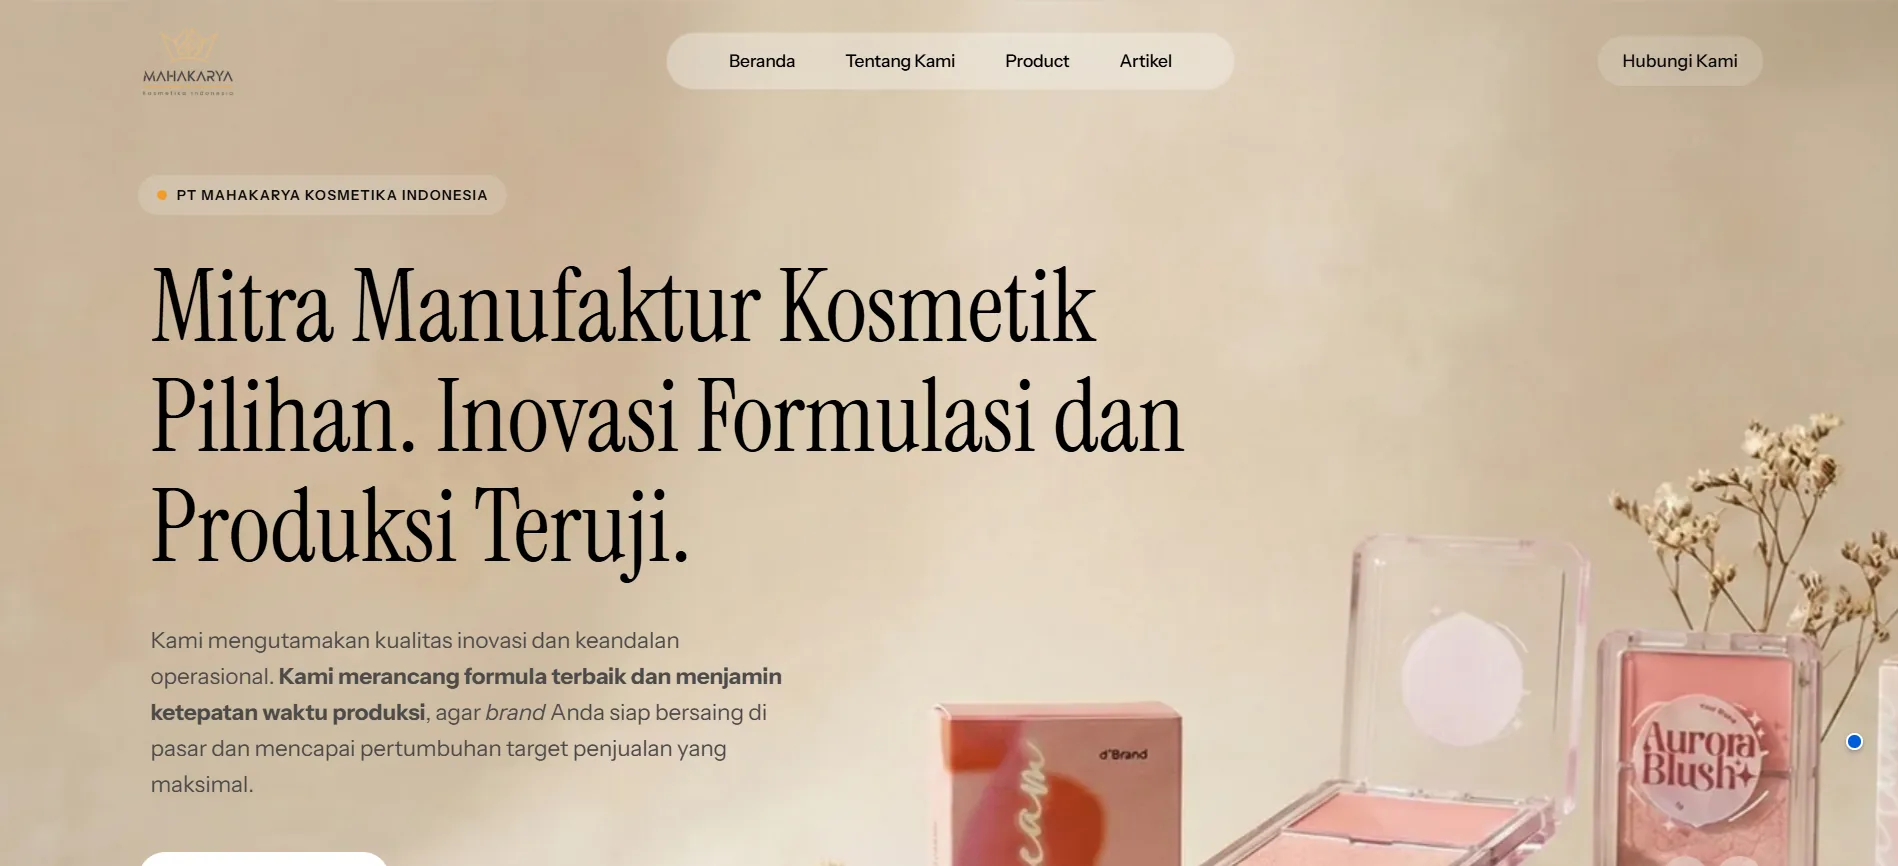
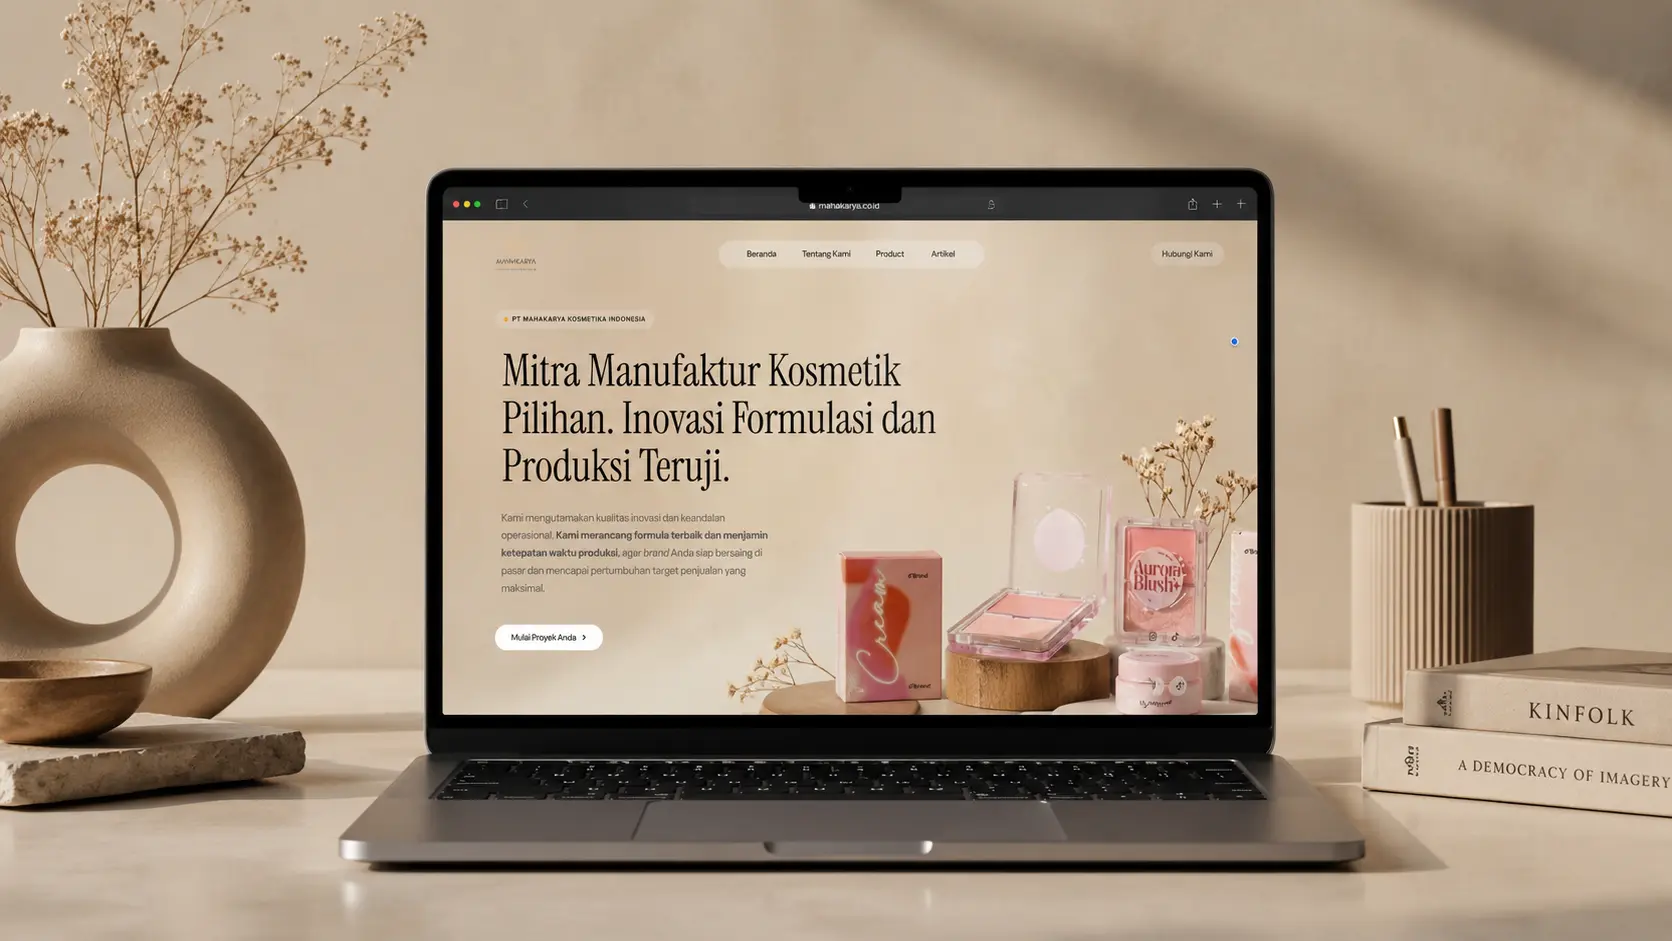
Add Karya Teknik case study and refine portfolio layout

diff --git a/src/data/projects.js b/src/data/projects.js
@@ -1,6 +1,7 @@
 import shinyoungImg from '../assets/screenshots/shinyoung.webp';
 import mahakaryaImg from '../assets/screenshots/mahakarya.webp';
 import wijayaImg from '../assets/screenshots/wijaya.webp';
+import ktiaImg from '../assets/screenshots/ktia.webp';
 
 export const featuredProjects = [
   {
@@ -21,8 +22,8 @@ export const featuredProjects = [
     contribution: ['WordPress', 'WooCommerce', 'Custom AI plugin'],
     link: 'https://shinyoungbeauty.com/',
     image: shinyoungImg,
-    width: 1902,
-    height: 870
+    width: 1672,
+    height: 939
   },
   {
     id: '02',
@@ -42,8 +43,8 @@ export const featuredProjects = [
     contribution: ['Strategi halaman', 'WordPress', 'Pengembangan web'],
     link: 'https://mahakaryakosmetika.co.id/',
     image: mahakaryaImg,
-    width: 1898,
-    height: 866
+    width: 1672,
+    height: 939
   },
   {
     id: '03',
@@ -63,8 +64,29 @@ export const featuredProjects = [
     contribution: ['Arsitektur konten', 'WordPress', 'SEO on-page dasar'],
     link: 'https://wijayainovasi.co.id/',
     image: wijayaImg,
-    width: 1896,
-    height: 860
+    width: 1672,
+    height: 939
+  },
+  {
+    id: '04',
+    slug: 'karya-teknik-internusa-abadi',
+    title: 'Karya Teknik Internusa Abadi',
+    type: 'Website Bisnis',
+    category: 'Company profile · Galangan kapal',
+    description: 'Website company profile untuk perusahaan galangan kapal yang memperkenalkan layanan, fasilitas, pengalaman, dan profil perusahaan dalam satu alur informasi.',
+    need: 'Perusahaan membutuhkan media digital yang menjelaskan kapabilitas galangan kapal secara profesional dan memudahkan calon mitra memahami layanan yang tersedia.',
+    approach: 'Informasi disusun dari pengenalan perusahaan menuju layanan, fasilitas, pengalaman, dan jalur kontak agar calon mitra dapat menilai kapabilitas secara bertahap.',
+    decisions: [
+      { title: 'Kapabilitas sebagai fokus', text: 'Pesan utama dan struktur halaman menempatkan kemampuan perusahaan sebagai informasi pertama yang diterima pengunjung.' },
+      { title: 'Layanan mudah dijelajahi', text: 'Layanan, fasilitas, dan pengalaman dipisahkan dengan jelas agar ruang lingkup perusahaan cepat dipahami.' },
+      { title: 'Identitas maritim yang kuat', text: 'Tampilan visual menggunakan konteks operasional galangan kapal untuk memperkuat relevansi dan karakter perusahaan.' }
+    ],
+    result: 'Website company profile yang menyajikan profil perusahaan, layanan galangan kapal, fasilitas, pengalaman, berita, dan jalur kontak dalam struktur yang terarah.',
+    contribution: ['Arsitektur konten', 'Company profile', 'Pengembangan web'],
+    link: null,
+    image: ktiaImg,
+    width: 1672,
+    height: 939
   }
 ];
 

diff --git a/src/views/CaseStudyView.vue b/src/views/CaseStudyView.vue
@@ -23,7 +23,8 @@ const project = computed(() => featuredProjects.find((item) => item.slug === rou
           </div>
           <div class="lg:pb-2">
             <p class="text-lg leading-relaxed text-text-secondary">{{ project.description }}</p>
-            <a :href="project.link" target="_blank" rel="noopener noreferrer" :data-track="`case_${project.slug}_visit`" class="mt-6 inline-flex items-center gap-2 text-sm font-bold text-text-primary hover:text-accent">Kunjungi website <ArrowUpRight class="h-4 w-4" /></a>
+            <a v-if="project.link" :href="project.link" target="_blank" rel="noopener noreferrer" :data-track="`case_${project.slug}_visit`" class="mt-6 inline-flex items-center gap-2 text-sm font-bold text-text-primary hover:text-accent">Kunjungi website <ArrowUpRight class="h-4 w-4" /></a>
+            <span v-else class="mt-6 inline-flex items-center text-sm font-bold text-text-tertiary">Tautan website menyusul</span>
           </div>
         </div>
 

diff --git a/src/views/PortfolioView.vue b/src/views/PortfolioView.vue
@@ -161,7 +161,8 @@ onUnmounted(() => window.removeEventListener('scroll', updateScrollProgress));
                   </div>
                   <div class="mt-9 flex flex-wrap items-center gap-5">
                     <RouterLink :to="`/hasil/${project.slug}`" :data-track="`portfolio_case_${project.slug}`" class="inline-flex w-fit items-center gap-2 text-sm font-bold text-text-primary transition-colors hover:text-accent">Baca ringkasan proyek <ArrowRight class="h-4 w-4" /></RouterLink>
-                    <a :href="project.link" target="_blank" rel="noopener noreferrer" :data-track="`portfolio_visit_${project.slug}`" class="inline-flex w-fit items-center gap-2 text-xs font-bold text-text-tertiary transition-colors hover:text-accent">Kunjungi website <ArrowUpRight class="h-3.5 w-3.5" /></a>
+                    <a v-if="project.link" :href="project.link" target="_blank" rel="noopener noreferrer" :data-track="`portfolio_visit_${project.slug}`" class="inline-flex w-fit items-center gap-2 text-xs font-bold text-text-tertiary transition-colors hover:text-accent">Kunjungi website <ArrowUpRight class="h-3.5 w-3.5" /></a>
+                    <span v-else class="inline-flex w-fit items-center gap-2 text-xs font-bold text-text-tertiary">Tautan website menyusul</span>
                   </div>
                 </div>
               </article>

diff --git a/src/components/CaseStudiesSection.vue b/src/components/CaseStudiesSection.vue
@@ -19,7 +19,7 @@ useGsapScrollReveal(sectionRef, { y: 30, stagger: 0.08, duration: 0.75, triggerS
         <p class="max-w-xl text-base leading-relaxed text-text-secondary lg:justify-self-end lg:text-lg">Tidak ada angka performa yang dibuat-buat. Yang ditampilkan adalah kebutuhan proyek, pendekatan, dan keluaran yang memang dikerjakan.</p>
       </div>
 
-      <div class="mt-12 grid gap-5 lg:grid-cols-3">
+      <div class="mt-12 grid gap-5 md:grid-cols-2">
         <article v-for="project in featuredProjects" :key="project.slug" class="group flex flex-col overflow-hidden rounded-[1.6rem] border border-border-default bg-bg-card shadow-[var(--shadow-sm)]">
           <RouterLink :to="`/hasil/${project.slug}`" class="block aspect-[16/10] overflow-hidden bg-bg-tertiary" :aria-label="`Baca studi kasus ${project.title}`">
             <img :src="project.image" :alt="`Tampilan website ${project.title}`" :width="project.width" :height="project.height" loading="lazy" decoding="async" class="h-full w-full object-cover object-top transition-transform duration-700 group-hover:scale-[1.025]" />